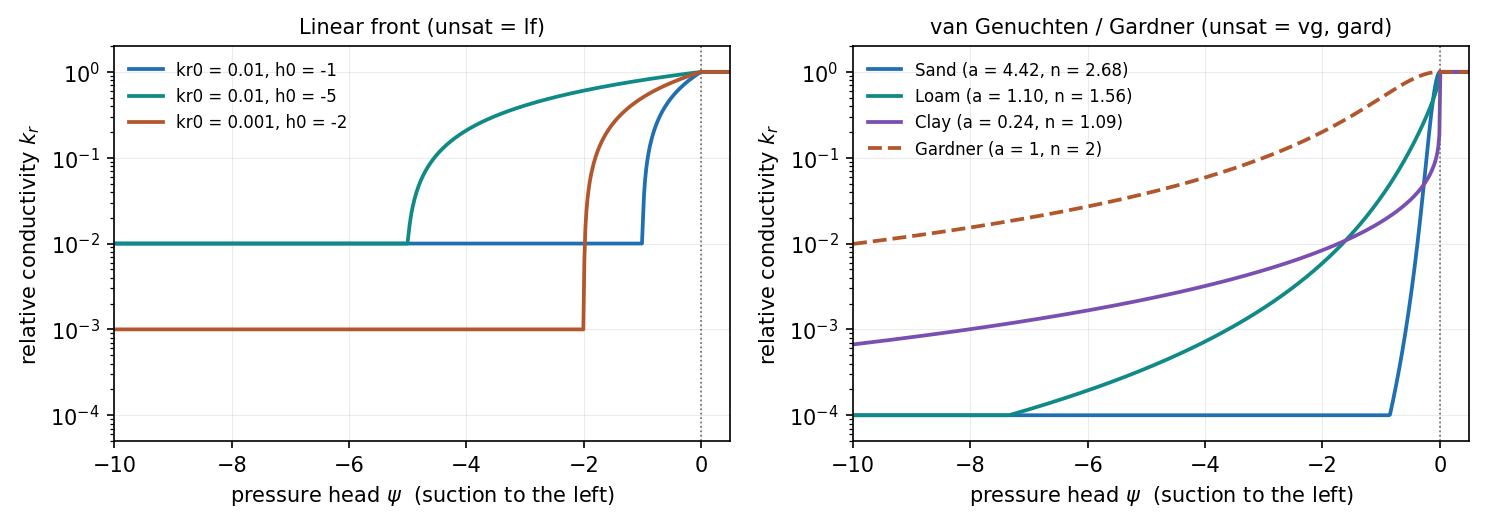
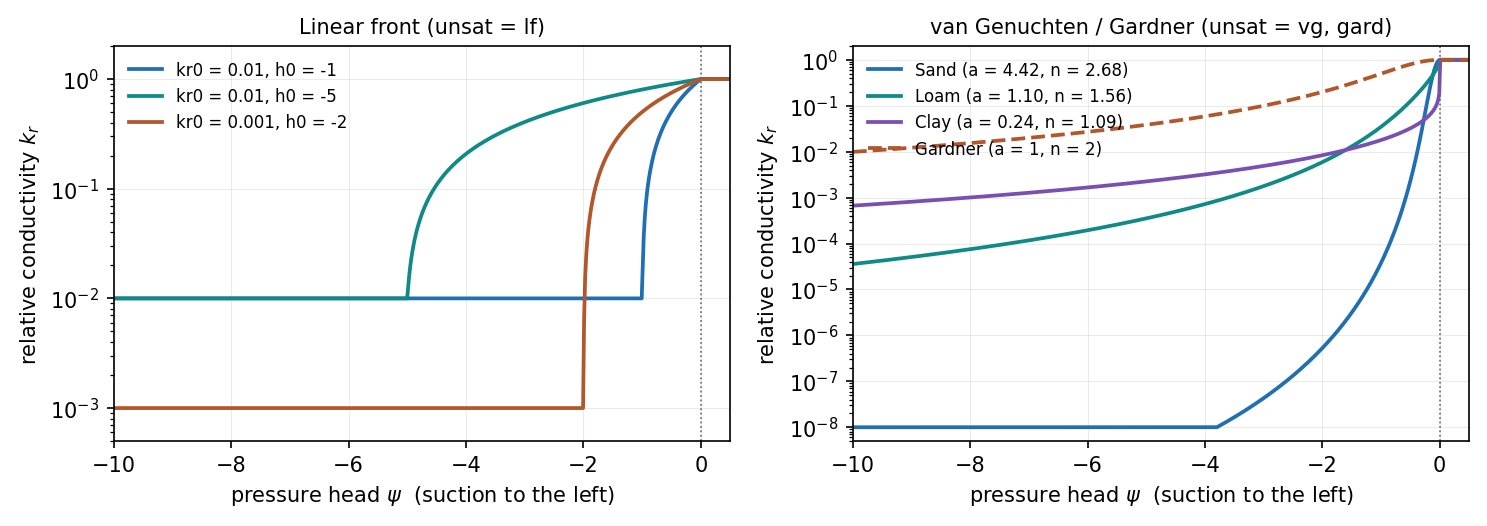
docs(seep): the kr models figure is drawn to the floor each model reaches
The overview's kr figure gives each panel its own ordinate: the linear front
stops at the kr0 it is given, the van Genuchten and Gardner curves run down to
kr_min, and the sand curve reaches it inside the plotted suction range. The
caption states the floor and what it is for. The Gardner texture table's clip is
named as the fit's, which is what it is.

Claude-Session: https://claude.ai/code/session_01XjjT2aBxw8gY7EFdpoUcpj

diff --git a/docs/seep/overview.md b/docs/seep/overview.md
@@ -77,8 +77,11 @@ input columns, `a` and `n`.
 ![seep_ov_kr_models.png](images/seep_ov_kr_models.png){width=1000px}
 
 *The three relative-conductivity models, evaluated by the solver's own `kr_relative_vec`
-(log scale). The van Genuchten and Gardner curves are floored at
-$k_{r,\min} = 10^{-4}$; the linear front is floored at its own $kr_0$.*
+(log scale, one ordinate per panel). The linear front stops at the $kr_0$ it is given;
+the van Genuchten and Gardner curves run on down to $k_{r,\min} = 10^{-8}$, a numerical
+guard that keeps the conduction matrix nonsingular where a dry element would otherwise
+carry nothing, and low enough that the head field no longer moves when it is lowered
+further. The sand curve is the one that reaches it here.*
 
 #### Linear front (`lf`)
 
@@ -147,7 +150,8 @@ Gardner's name. There is no $m = 1 - 1/n$ coupling, so $n$ need only be positive
 **Fitted parameters** by USDA soil-texture class. Gardner has no published texture table of
 its own — its parameters normally arrive with an imported SEEP/W or Slide model, or from
 fitted measurements. The values below are least-squares fits (in $\log_{10} k_r$ over 0.01
-to 100 ft of suction, with $k_r$ floored at $10^{-4}$) to each texture's van Genuchten curve
+to 100 ft of suction, with both curves clipped at $k_r = 10^{-4}$ so the dry tail does not
+dominate the misfit) to each texture's van Genuchten curve
 from the Carsel & Parrish table above, so the underlying dataset is the same; the RMS column
 is the misfit of the power form to that curve — small for coarse textures, about a quarter
 of a decade for the clays. They are produced by `tools/fit_gardner_table.py`:
